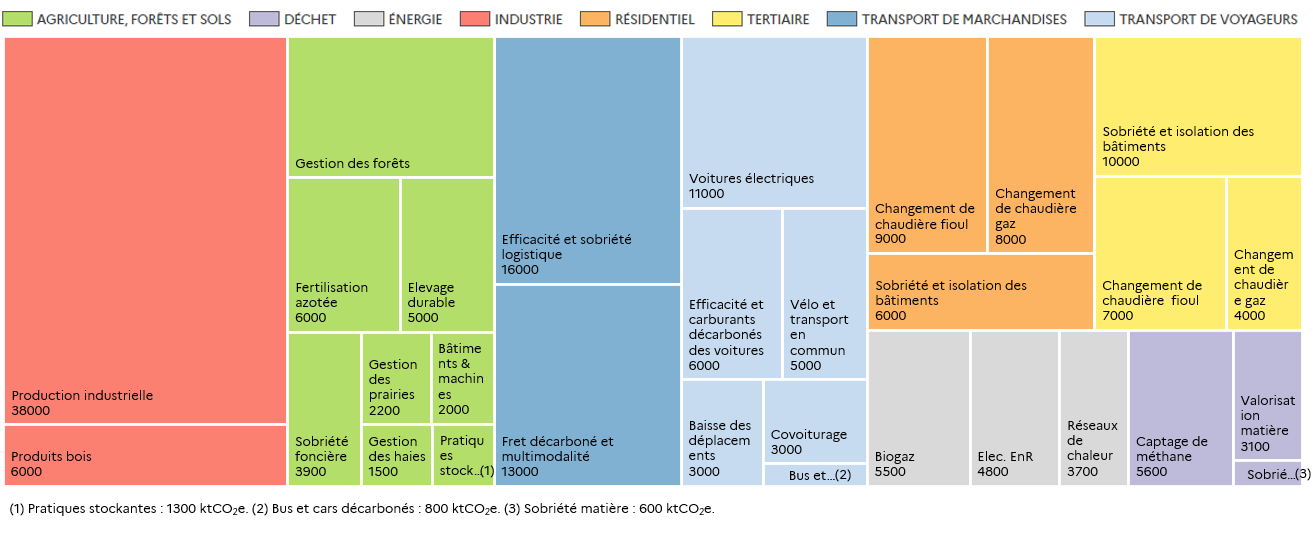
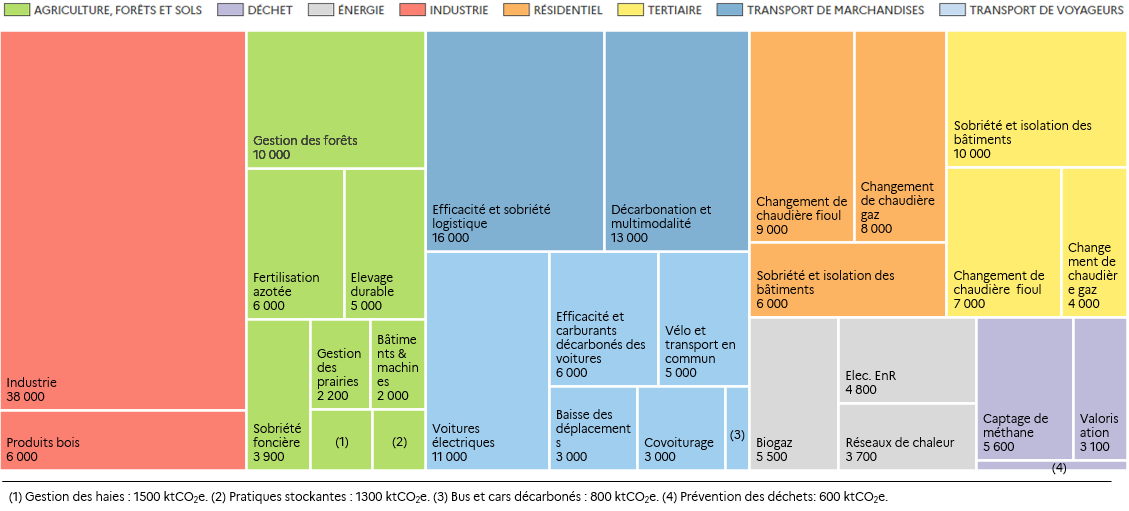
Mise à jour de la page “à propos”

diff --git a/src/routes/a-propos/+page.svelte b/src/routes/a-propos/+page.svelte
@@ -26,7 +26,7 @@
         couvSynthImg
       )
       .replace(
-        "https://storage.gra.cloud.ovh.net/v1/AUTH_0f20d409cb2a4c9786c769e2edec0e06/padnumerique/uploads/57210b44-0d3b-4a35-b111-2a5903116ca8.PNG",
+        "https://storage.gra.cloud.ovh.net/v1/AUTH_0f20d409cb2a4c9786c769e2edec0e06/padnumerique/uploads/3f6bb22f-6a0b-41c5-ba36-2db2e4e2a883.PNG",
         panoramaImg
       )
   )}

diff --git a/src/routes/a-propos/content.md b/src/routes/a-propos/content.md
@@ -46,9 +46,9 @@ Les travaux de planification écologique ont permis de construire un plan qui do
 
 Sur la base du plan, le SGPE a constitué un panorama des leviers qui permet une répartition provisoire des leviers de réduction des émissions de gaz à effet de serre entre 2019 et 2030, en kilotonnes équivalent CO2 économisées.
 
-![](https://storage.gra.cloud.ovh.net/v1/AUTH_0f20d409cb2a4c9786c769e2edec0e06/padnumerique/uploads/57210b44-0d3b-4a35-b111-2a5903116ca8.PNG)
+![](https://storage.gra.cloud.ovh.net/v1/AUTH_0f20d409cb2a4c9786c769e2edec0e06/padnumerique/uploads/3f6bb22f-6a0b-41c5-ba36-2db2e4e2a883.PNG)
 
-_Le visuel ci-desous correspond à une version du panorama des leviers national adaptée à la méthodologie du simulateur territorial (plus de détails dans la partie dédiée au simulateur)._
+_Le visuel ci-dessus correspond à une version du panorama des leviers national adaptée à la méthodologie du simulateur territorial (plus de détails dans la partie dédiée au simulateur)._
 
 ### La territorialisation de la planification
 
@@ -100,37 +100,37 @@ Des clés de répartition simples ont été utilisées pour répartir la contrib
 
 **Les clés de répartition permettant le passage de l'échelon national à l'échelon régional sont les suivantes :**
 
-| Leviers                                                  | Clé de répartition régionale                                                     | Source              |
-| -------------------------------------------------------- | -------------------------------------------------------------------------------- | ------------------- |
-| Voitures électriques                                     | Parc de véhicules thermiques (>5 ans)                                            | SDES                |
-| Efficacité et carburants décarbonés des véhicules privés | Parc de véhicules thermiques (>5 ans)                                            | SDES                |
-| Bus et cars décarbonés                                   | Parc de bus et cars thermiques                                                   | SDES                |
-| Réduction des déplacements                               | Population                                                                       | INSEE               |
-| Covoiturage                                              | Population                                                                       | INSEE               |
-| Vélo et transports en commun                             | Population                                                                       | INSEE               |
-| Fret : carburants décarbonés et multimodalité            | Tonnes-km marchandises (1)                                                       | SDES                |
-| Fret : efficacité et sobriété logistique                 | Tonnes-km marchandises (1)                                                       | SDES                |
-| Sobriété et isolation (résidentiel)                      | Consommation d’énergie finale dans le résidentiel                                | SDES                |
-| Chaudières fioul (résidentiel)                           | Logements chauffés au fioul (résidences principales)                             | INSEE               |
-| Chaudières gaz (résidentiel)                             | Logements chauffés au gaz (résidences principales)                               | INSEE               |
-| Sobriété et isolation (tertiaire)                        | Consommation d’énergie finale dans le tertiaire                                  | SDES                |
-| Chaudières fioul (tertiaire)                             | Consommation d’énergie de p. pétroliers dans le tertiaire                        | SDES                |
-| Chaudières gaz (tertiaire)                               | Consommation de gaz naturel dans le tertiaire                                    | SDES                |
-| Electricité renouvelable                                 | Objectifs de déploiement d’électricité renouvelable                              | SRADDETs            |
-| Biogaz                                                   | Potentiel de biogaz                                                              | ADEME               |
-| Réseaux de chaleur décarbonés                            | Chaleur carbonée livrée                                                          | CEREMA              |
-| Production industrielle                                  | Emissions par région (+ grands sites et raffineries)                             | CITEPA / IREP / ETS |
-| Captage de méthane dans les ISDND                        | Emissions de méthane dans le secteur des déchets                                 | CITEPA              |
-| Valorisation matière des déchets                         | Quantité de DMA non valorisée par région                                         | ADEME               |
-| Sobriété matière des déchets                             | Quantité de DMA produite par région                                              | ADEME               |
-| Fertilisation azotée                                     | Tonnes d’engrais azotés consommés                                                | UNIFA               |
-| Elevage durable                                          | Taille du cheptel bovin                                                          | AGRESTE             |
-| Bâtiments et machines agricoles                          | Surface agricole utile                                                           | AGRESTE             |
-| Gestion des forêts                                       | Objectif non régionalisé en absence de données comparables sur l’état des forêts | N/A                 |
-| Produit bois                                             | Surface de forêt hors outre mer                                                  | IGN                 |
-| Gestion des haies                                        | Surface agricole utile                                                           | AGRESTE             |
-| Gestion des prairies                                     | Emissions liées au retournement des prairies                                     | CITEPA              |
-| Pratiques stockantes                                     | Terres arables                                                                   | AGRESTE             |
-| Sobriété foncière                                        | Emissions liées à l'artificialisation des sols                                   | CITEPA              |
+| Leviers                                                  | Clé de répartition régionale                                                     | Source   |
+| -------------------------------------------------------- | -------------------------------------------------------------------------------- | -------- |
+| Voitures électriques                                     | Parc de véhicules thermiques (>5 ans)                                            | SDES     |
+| Efficacité et carburants décarbonés des véhicules privés | Parc de véhicules thermiques (>5 ans)                                            | SDES     |
+| Bus et cars décarbonés                                   | Parc de bus et cars thermiques                                                   | SDES     |
+| Réduction des déplacements                               | Population                                                                       | INSEE    |
+| Covoiturage                                              | Population                                                                       | INSEE    |
+| Vélo et transports en commun                             | Population                                                                       | INSEE    |
+| Fret : carburants décarbonés et multimodalité            | Tonnes-km marchandises (1)                                                       | SDES     |
+| Fret : efficacité et sobriété logistique                 | Tonnes-km marchandises (1)                                                       | SDES     |
+| Sobriété et isolation (résidentiel)                      | Consommation d’énergie finale dans le résidentiel                                | SDES     |
+| Chaudières fioul (résidentiel)                           | Logements chauffés au fioul (résidences principales)                             | INSEE    |
+| Chaudières gaz (résidentiel)                             | Logements chauffés au gaz (résidences principales)                               | INSEE    |
+| Sobriété et isolation (tertiaire)                        | Consommation d’énergie finale dans le tertiaire                                  | SDES     |
+| Chaudières fioul (tertiaire)                             | Consommation d’énergie de p. pétroliers dans le tertiaire                        | SDES     |
+| Chaudières gaz (tertiaire)                               | Consommation de gaz naturel dans le tertiaire                                    | SDES     |
+| Electricité renouvelable                                 | Objectifs de déploiement d’électricité renouvelable                              | SRADDETs |
+| Biogaz                                                   | Potentiel de biogaz                                                              | ADEME    |
+| Réseaux de chaleur décarbonés                            | Chaleur carbonée livrée                                                          | CEREMA   |
+| Production industrielle                                  | Emissions de GES dans l'industrie                                                | CITEPA   |
+| Captage de méthane dans les ISDND                        | Emissions de méthane dans le secteur des déchets                                 | CITEPA   |
+| Valorisation matière des déchets                         | Quantité de DMA non valorisée par région                                         | ADEME    |
+| Sobriété matière des déchets                             | Quantité de DMA produite par région                                              | ADEME    |
+| Fertilisation azotée                                     | Tonnes d’engrais azotés consommés                                                | UNIFA    |
+| Elevage durable                                          | Taille du cheptel bovin                                                          | AGRESTE  |
+| Bâtiments et machines agricoles                          | Surface agricole utile                                                           | AGRESTE  |
+| Gestion des forêts                                       | Objectif non régionalisé en absence de données comparables sur l’état des forêts | N/A      |
+| Produit bois                                             | Surface de forêt hors outre mer                                                  | IGN      |
+| Gestion des haies                                        | Surface agricole utile                                                           | AGRESTE  |
+| Gestion des prairies                                     | Emissions liées au retournement des prairies                                     | CITEPA   |
+| Pratiques stockantes                                     | Terres arables                                                                   | AGRESTE  |
+| Sobriété foncière                                        | Emissions liées à l'artificialisation des sols                                   | CITEPA   |
 
 (1) Tenant compte des régions de chargement et déchargement
